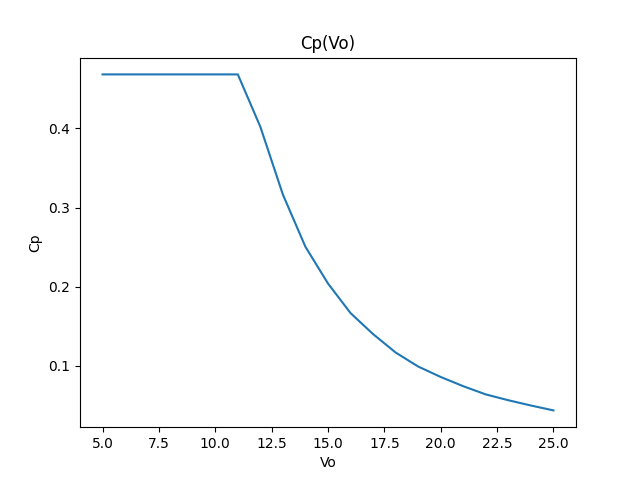
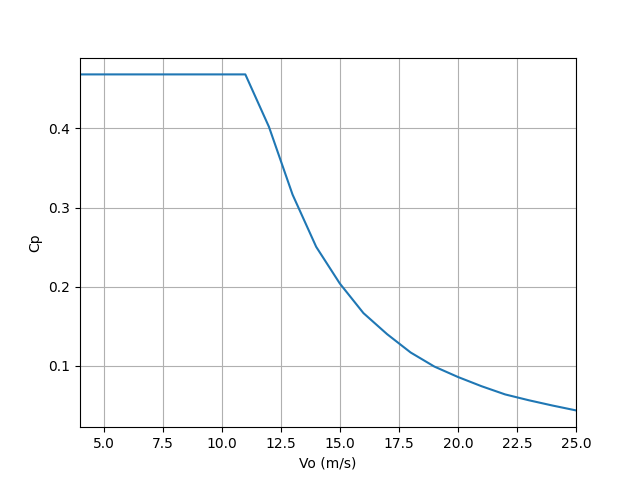
a lot

diff --git a/Python codes/Assignement1_Q4 copy.py b/Python codes/Assignement1_Q4 copy.py
@@ -44,8 +44,11 @@ r_ref.pop()
 
 def simple_graph(x,y,x_label,y_label):
     plt.figure()
+    plt.grid()
+    plt.xlim(4,25)
+    #plt.ylim(y_low,y_top)
     plt.plot(x, y)
-    plt.title((y_label + '(' + x_label + ')'))
+    #plt.title((y_label + '(' + x_label + ')'))
     plt.xlabel(x_label)
     plt.ylabel(y_label)
     plt.savefig('plots/'+y_label+'.png')
@@ -134,7 +137,7 @@ def BEM(Vo,TSR,pitch,r,c,twist,thick,aoa_tab,cl_tab,cd_tab,cm_tab):
 
 
 #Variables__________
-Vo = np.arange(5,25+1,1)
+Vo = np.arange(4,25+1,1)
 pitch = 0
 pitch_delta = 0.1
 
@@ -183,9 +186,9 @@ for i in range(len(Vo)):
 for i in range(len(Vo)):
     print('Vo(m/s) =', Vo[i], 'T(kN) =', int(T_lst[i]/1000), 'Pitch =', round(pitch_lst[i],1))
 
-simple_graph(Vo, pitch_lst, 'Vo', 'Pitch')
-simple_graph(Vo, P_lst, 'Vo', 'Power')
-simple_graph(Vo, T_lst, 'Vo', 'Thrust')
-simple_graph(Vo, Cp_lst, 'Vo', 'Cp')
-simple_graph(Vo, Ct_lst, 'Vo', 'Ct')
+simple_graph(Vo, pitch_lst, 'Vo (m/s)', 'Pitch (deg)')
+simple_graph(Vo, P_lst/1000, 'Vo (m/s)', 'Power (kW)')
+simple_graph(Vo, T_lst/1000, 'Vo (m/s)', 'Thrust (kN)')
+simple_graph(Vo, Cp_lst, 'Vo (m/s)', 'Cp')
+simple_graph(Vo, Ct_lst, 'Vo (m/s)', 'Ct')
 plt.close()
